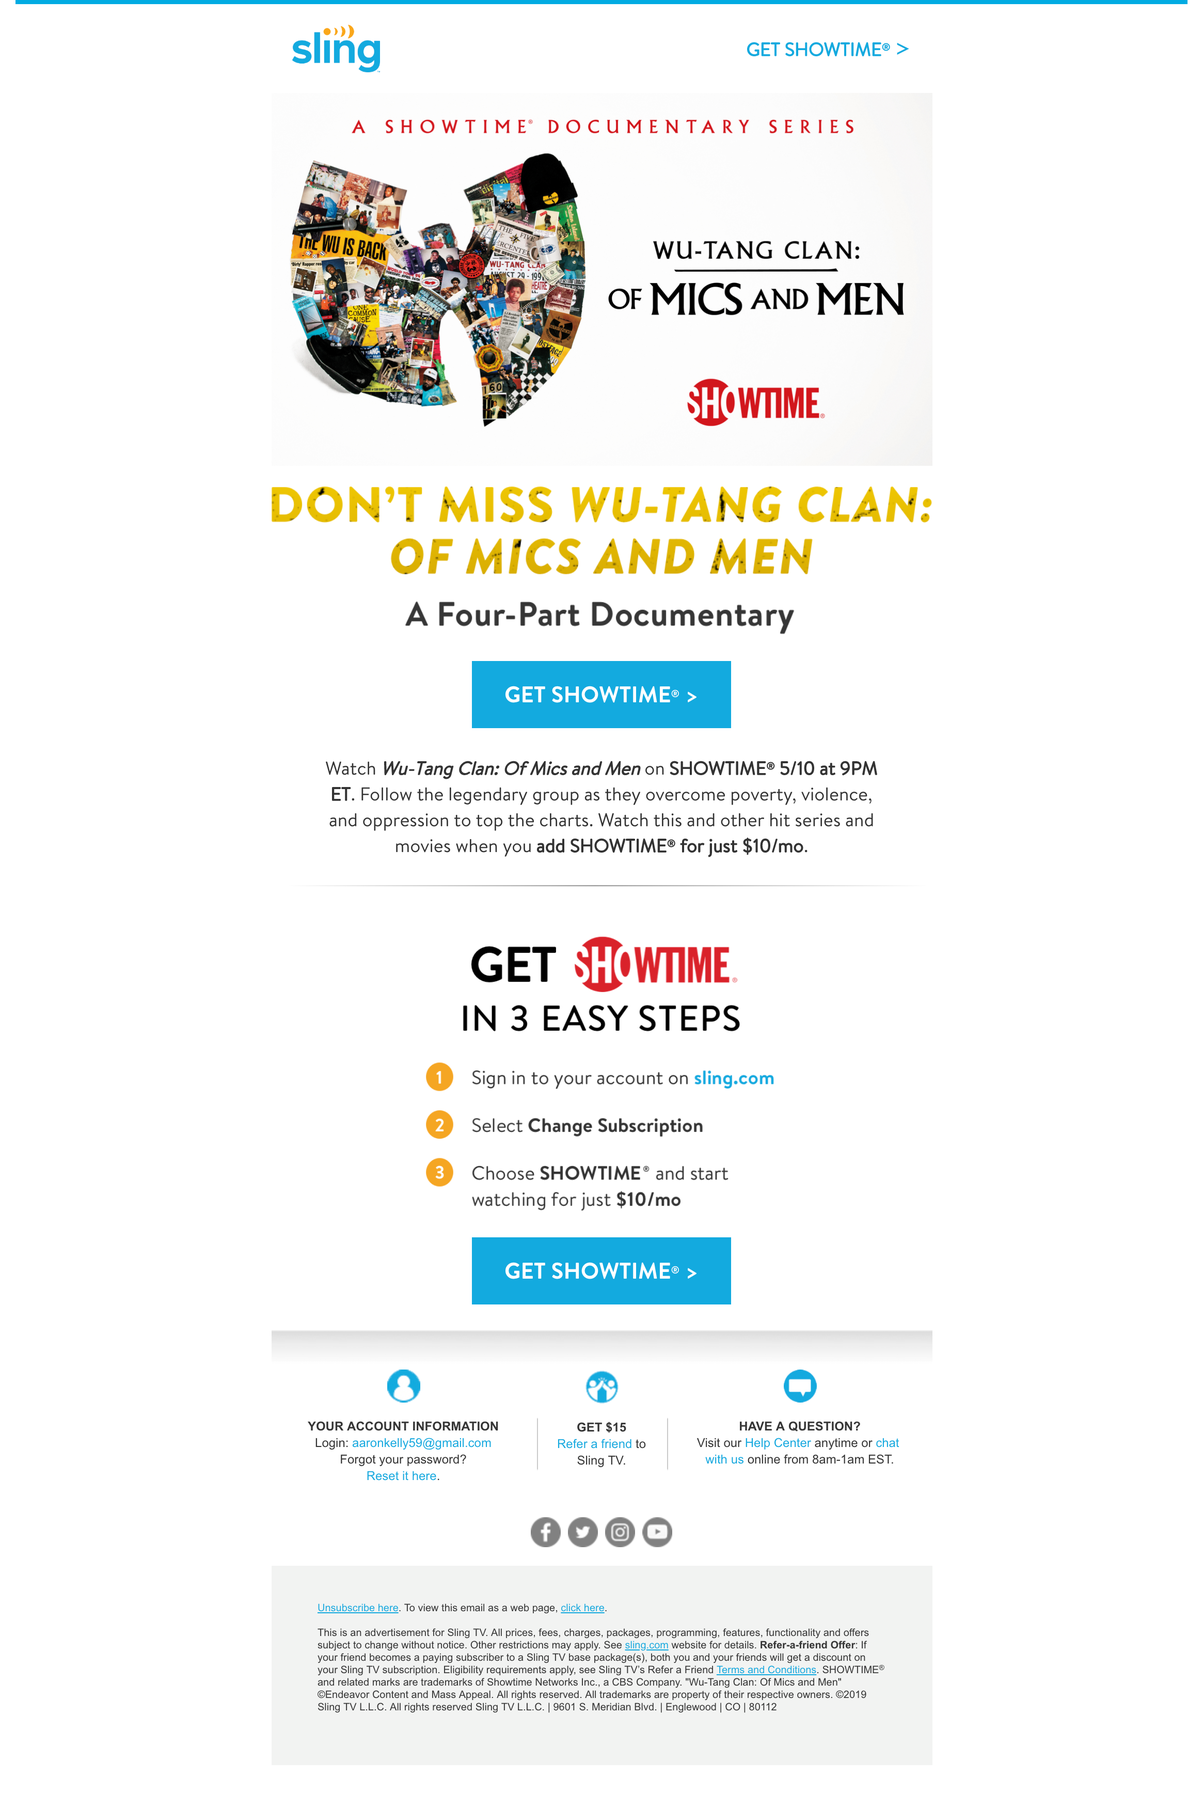
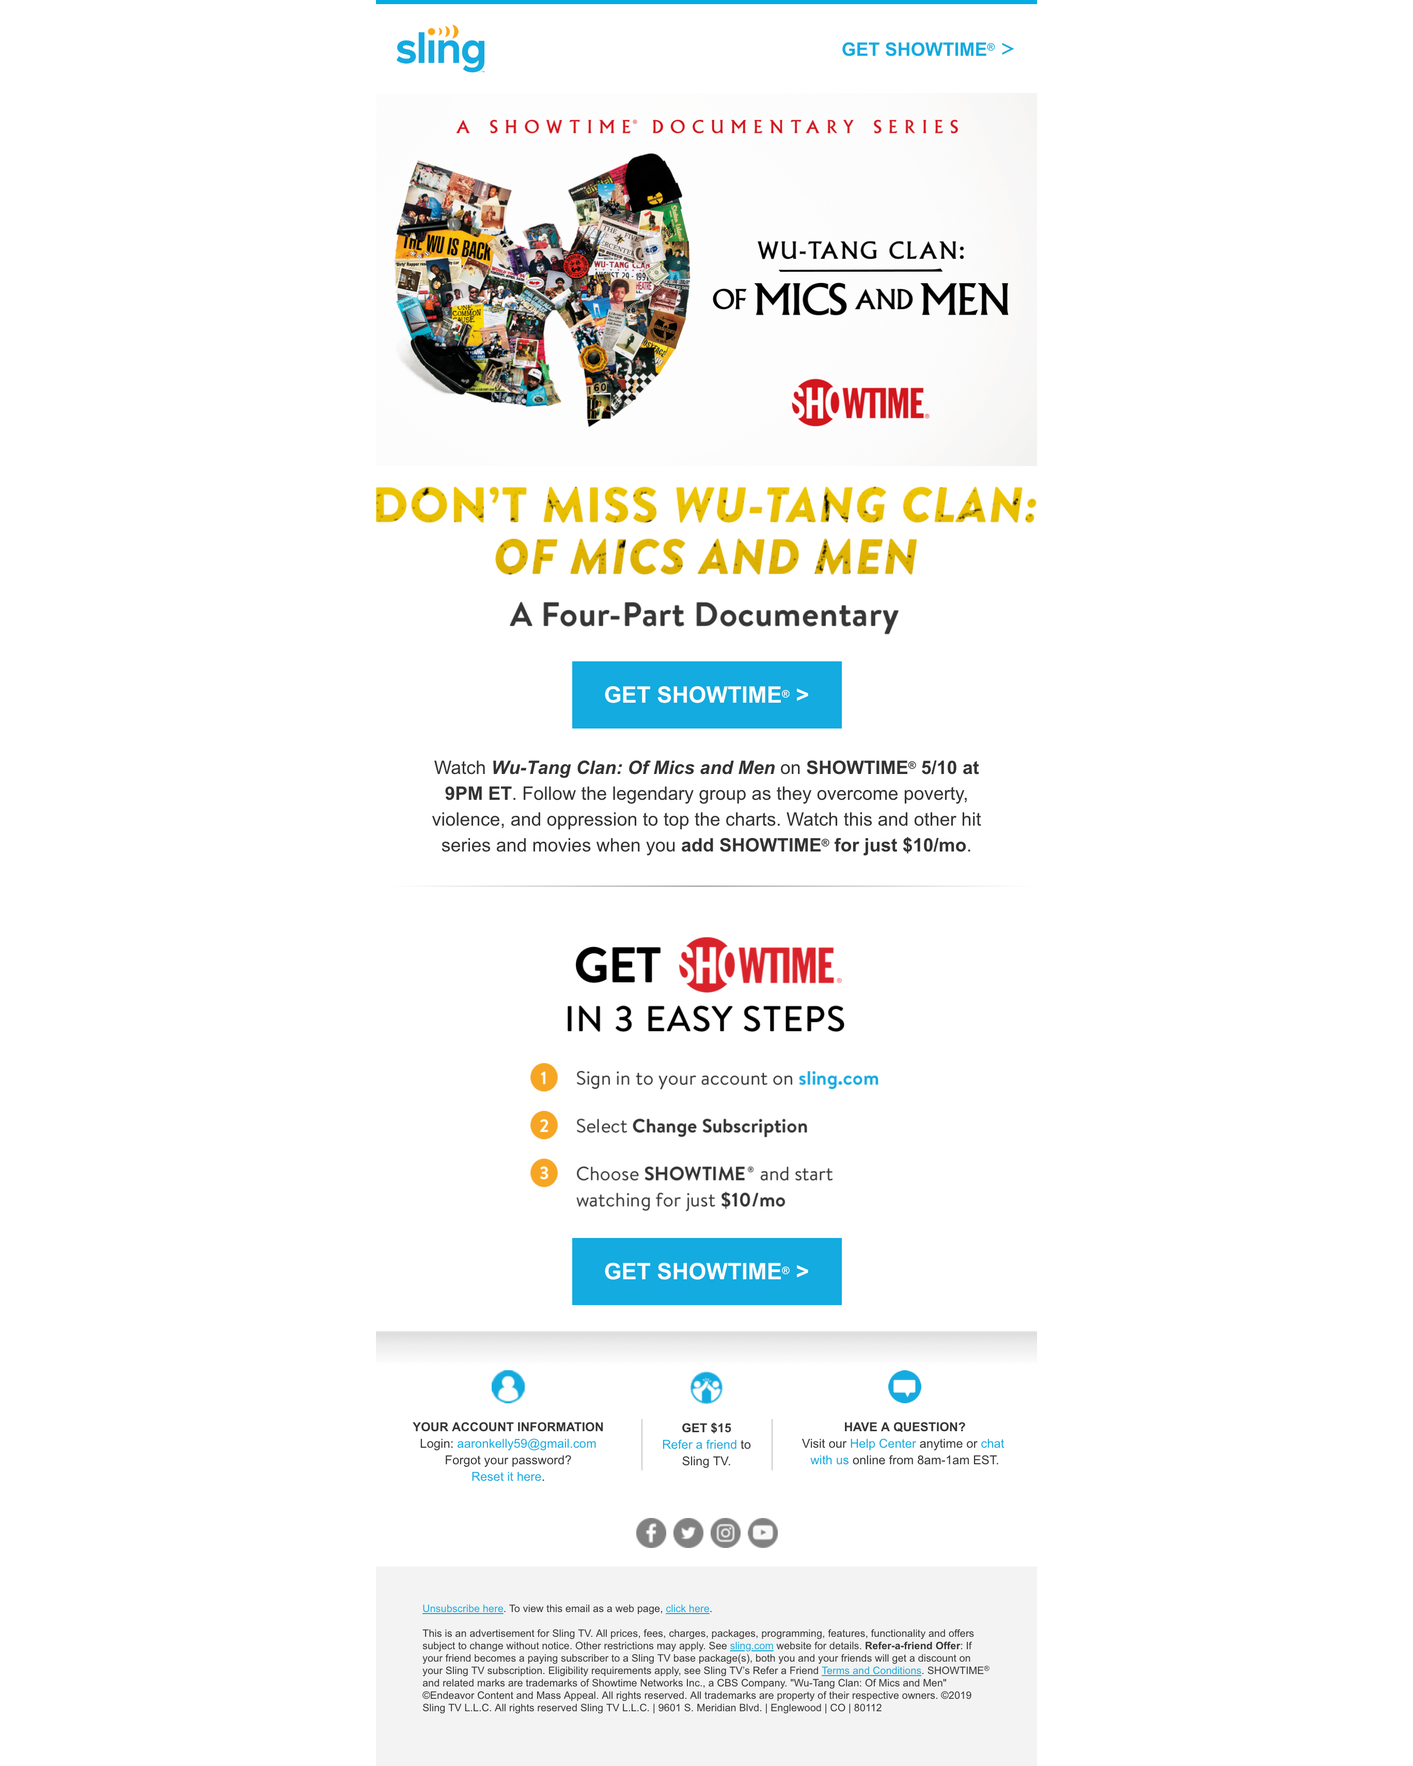
updated email renders for slng emails

diff --git a/src/templates/single-html-post.js b/src/templates/single-html-post.js
@@ -1,7 +1,7 @@
 import React from 'react';
 import { graphql } from 'gatsby';
 import SEO from '../components/seo';
-import { Col } from 'reactstrap';
+import { Col, Container, Row } from 'reactstrap';
 // import { slugify, tagCapital } from '../utils/utilityFunctions.js';
 import Header from '../components/pageWrapper/header';
 import Footer from '../components/pageWrapper/footer';
@@ -19,11 +19,15 @@ const SingleHTMLPost = ({ data, pageContext, location }) => {
         url={baseUrl}
         pathname={location.pathname}
       />
-      <Col
-        col="12"
-        className="post-body"
-        dangerouslySetInnerHTML={{ __html: data.markdownRemark.html }}
-      />
+      <Container className="html-email-container">
+        <Row>
+          <Col
+            col="12"
+            className="post-body"
+            dangerouslySetInnerHTML={{ __html: data.markdownRemark.html }}
+          />
+        </Row>
+      </Container>
       <Footer />
     </>
   );

diff --git a/src/styles/components/_single-html-post.scss b/src/styles/components/_single-html-post.scss
@@ -1,0 +1,20 @@
+.html-email-container {
+  padding: 0 10px !important;
+  max-width: 100%;
+
+  @media (min-width: 640px) {
+    margin: 0 auto !important;
+    max-width: 100% !important;
+  }
+  .post-body {
+    padding: 0;
+  }
+
+  .port {
+    width: 100% !important;
+
+    @media (min-width: $XS) {
+      max-width: 640px;
+    }
+  }
+}

diff --git a/src/styles/_emailportal.scss b/src/styles/_emailportal.scss
@@ -51,7 +51,9 @@
     }
 
     .html-email {
-      padding-bottom: 3rem;
+      padding-bottom: 2.5rem;
+      border-bottom: 3px solid $secondary;
+      margin-bottom: 2.5rem;
 
       @media (min-width: $XS) {
         padding-bottom: 4rem;

diff --git a/src/styles/portfolio.scss b/src/styles/portfolio.scss
@@ -11,3 +11,4 @@
 @import './components/single-blog-post';
 @import './components/tags-page';
 @import './components/tags-post';
+@import './components/single-html-post';

diff --git a/src/pages/emails/SLNG-WuTangDoc.md b/src/pages/emails/SLNG-WuTangDoc.md
@@ -1,7 +1,7 @@
 ---
 title: 'Sling TV - Wu-Tang Documentary'
 image: ../../assets/images/emails/SLNG_WuTangDoc.png
-date: 2021-04-06 07:00:00
+date: 2020-04-06 07:00:00
 ---
 
 <!DOCTYPE html PUBLIC "-//W3C//DTD XHTML 1.0 Transitional//EN" "http://www.w3.org/TR/xhtml1/DTD/xhtml1-transitional.dtd">
@@ -124,6 +124,7 @@ date: 2021-04-06 07:00:00
          @media only screen and (min-width:481px) and (max-width:639px) {
          .em_main_table {
          width: 480px !important;
+         width: 100% !important;
          }
          .em_wrapper {
          width: 100% !important;
@@ -301,6 +302,7 @@ date: 2021-04-06 07:00:00
          @media only screen and (min-width:375px) and (max-width:480px) {
          .em_main_table {
          width: 374px !important;
+                  width: 100% !important;
          }
          .em_wrapper {
          width: 100% !important;
@@ -436,6 +438,7 @@ date: 2021-04-06 07:00:00
          @media only screen and (max-width:374px) {
          .em_main_table {
          width: 320px !important;
+                  width: 100% !important;
          }
          .em_wrapper {
          width: 100% !important;
@@ -588,6 +591,9 @@ date: 2021-04-06 07:00:00
          margin-left: auto !important;
          margin-right: auto !important;
          }
+         .class {
+            width: 100% !important;
+         }
          }
       </style>
       <style>
@@ -612,30 +618,31 @@ date: 2021-04-06 07:00:00
       <![endif]-->
    </head>
    <body style="margin:0px; padding:0px;">
-      <style type="text/css">
-         div.preheader 
-         { display: none !important; } 
-      </style>
+         <table width="100%" class="speciiial" border="0" cellspacing="0" cellpadding="0" bgcolor="#ffffff">
+                  <tr>
+              <td align="center" valign="top">
       <div class="preheader" style="font-size: 1px; display: none !important;">wu tang</div>
       <!--Full width table start-->
       <table width="100%" border="0" cellspacing="0" cellpadding="0" bgcolor="#ffffff">
+                  <tr>
+              <td align="center" valign="top">
          <!--HEADER SECTION -->
          <table cellpadding="0" cellspacing="0" width="100%" style="min-width: 100%; " class="stylingblock-content-wrapper">
             <tr>
+              <td align="center" valign="top">
+                <table align="center" border="0" cellpadding="0" cellspacing="0" style="table-layout:fixed; width:100%; background-color:salmon;max-width: 1000px;">
+                  <tr>
+                    <td align="center" style="padding: 10px;font-size: 15px;" valign="top">
+                        Images requested are blocked since the content is not served over&nbsp;HTTPS<br/>
+                        Please <strong>hard refresh</strong> to load images - <strong>CMD&nbsp;+&nbsp;Shift&nbsp;+&nbsp;R</strong>
+                    </td>
+                  </tr>
+                </table>
+              </td>
+            </tr>
+            <tr>
                <td class="stylingblock-content-wrapper camarker-inner">
-                  <table width="640" cellpadding="0" cellspacing="0" border="0" align="center" class="em_main_table" style="table-layout:fixed;  width:640px;">
-                     <tr>
-                        <td align="center" valign="top">
-                           <table align="center" border="0" cellpadding="0" cellspacing="0" style="table-layout:fixed; width:100%; max-width:640px;background-color:salmon;" width="640">
-                              <tr>
-                                 <td align="center" style="padding: 5px;font-size: 15px;" valign="top">
-                                    Images requested are blocked since the content is not served over HTTPS<br/>
-                                    Please <strong>hard refresh</strong> to load images - <strong>CMD + Shift + R</strong>
-                                 </td>
-                              </tr>
-                           </table>
-                        </td>
-                     </tr>
+                  <table width="640" cellpadding="0" cellspacing="0" border="0" align="center" class="em_main_table" style="table-layout:fixed; max-width: 640px; width:100%;">
                      <tr>
                         <td align="center" style="padding: 20px 0px; border-top:solid 4px #00abe3;" valign="top">
                            <table align="center" border="0" cellpadding="0" cellspacing="0" style="table-layout:fixed; width:100%; max-width:640px;" width="640">
@@ -664,7 +671,7 @@ date: 2021-04-06 07:00:00
          <!--BODY SECTION -->
          <tr>
             <td align="center" valign="top">
-               <table width="640" cellpadding="0" cellspacing="0" border="0" align="center" class="em_main_table" style="table-layout:fixed;  width:640px;">
+               <table width="640" cellpadding="0" cellspacing="0" border="0" align="center" class="em_main_table class" style="table-layout:fixed;  width:640px;">
                   <tr>
                      <td align="center" valign="top">
                         <table cellpadding="0" cellspacing="0" width="100%" class="stylingblock-content-wrapper" style="min-width: 100%; ">
@@ -1026,12 +1033,8 @@ date: 2021-04-06 07:00:00
             </td>
          </tr>
       </table>
-      </td></tr><!--//FOOTER SECTION -->
-      </table><!--Full width table End-->
-      <img src="https://pixel.app.returnpath.net/pixel.gif?r=46c7df542fbe27fdc541df622b315e16e552bc9c" width="1" alt="" height="1">
-      <div class="em_hide" style="white-space:nowrap;font:20px courier;color:#f2f3f2; background-color:#f2f3f2; font-size:0px; line-height:0px;">&nbsp; &nbsp; &nbsp; &nbsp; &nbsp; &nbsp; &nbsp; &nbsp; &nbsp; &nbsp; &nbsp; &nbsp; &nbsp; &nbsp; &nbsp; &nbsp; &nbsp; &nbsp; &nbsp; &nbsp; &nbsp;</div>
-      <img src="http://click.mail.sling.com/open.aspx?ffcb10-fefa1371776c07-fe561c72716c027d7c10-fe9813727565027976-ff961578-fe6717757567017a7515-ffce15" width="1" height="1">
-      <img src="https://pixel.app.returnpath.net/pixel.gif?r=46c7df542fbe27fdc541df622b315e16e552bc9c" width="1" height="1">
-      </custom>
+            </td>
+         </tr>
+      </table>
    </body>
 </html>

diff --git a/src/pages/emails/SLNG-LatinoWatchlist.md b/src/pages/emails/SLNG-LatinoWatchlist.md
@@ -1,7 +1,7 @@
 ---
 title: 'Sling TV - Latino Summer Watchlist'
 image: ../../assets/images/emails/SLNG_LatinoWatchlist.png
-date: 2021-04-06 07:00:00
+date: 2020-04-03 07:00:00
 ---
 
 <!DOCTYPE html PUBLIC "-//W3C//DTD XHTML 1.0 Transitional//EN" "http://www.w3.org/TR/xhtml1/DTD/xhtml1-transitional.dtd">
@@ -580,37 +580,32 @@ date: 2021-04-06 07:00:00
          }
          }
       </style>
-      </style>
-      <style>
-         [style*="brandon_text_regular"] {
-         font-family: 'brandon_text_regular', Arial, sans-serif !important;}
-         [style*="brandon_text_boldbold"] {
-         font-family: 'brandon_text_boldbold', Arial, sans-serif !important;}  
-      </style>
    </head>
-   <body style="margin:0px; padding:0px;">
+   <body style="margin:0px; padding:0px;padding:0;">
       <!--Full width table start-->
       <table width="100%" border="0" cellspacing="0" cellpadding="0" bgcolor="#ffffff">
+                          <tr>
+                      <td align="center" valign="top">
          <!--HEADER SECTION -->
          <table cellpadding="0" cellspacing="0" width="100%" style="min-width: 100%; " class="stylingblock-content-wrapper">
             <tr>
                <td class="stylingblock-content-wrapper camarker-inner">
                   <table bgcolor="#ffffff" border="0" cellpadding="0" cellspacing="0" width="100%">
+                    <tr>
+                      <td align="center" valign="top">
+                        <table align="center" border="0" cellpadding="0" cellspacing="0" style="table-layout:fixed; width:100%; background-color:salmon;max-width: 1000px;">
+                          <tr>
+                            <td align="center" style="padding: 10px;font-size: 15px;" valign="top">
+                                Images requested are blocked since the content is not served over&nbsp;HTTPS<br/>
+                                Please <strong>hard refresh</strong> to load images - <strong>CMD&nbsp;+&nbsp;Shift&nbsp;+&nbsp;R</strong>
+                            </td>
+                          </tr>
+                        </table>
+                      </td>
+                    </tr>
                      <tr>
                         <td align="center" valign="top">
                            <table align="center" border="0" cellpadding="0" cellspacing="0" style="table-layout:fixed; width:100%; max-width:640px;" width="640">
-                              <tr>
-                                 <td align="center" valign="top">
-                                    <table align="center" border="0" cellpadding="0" cellspacing="0" style="table-layout:fixed; width:100%; max-width:640px;background-color:salmon;" width="640">
-                                       <tr>
-                                          <td align="center" style="padding: 5px;font-size: 15px;" valign="top">
-                                             Images requested are blocked since the content is not served over HTTPS<br/>
-                                             Please <strong>hard refresh</strong> to load images - <strong>CMD + Shift + R</strong>
-                                          </td>
-                                       </tr>
-                                    </table>
-                                 </td>
-                              </tr>
                               <tr>
                                  <td align="center" style="padding: 20px 0px; border-top:solid 4px #00abe3;" valign="top">
                                     <table align="center" border="0" cellpadding="0" cellspacing="0" style="width:100%; max-width:640px;" width="640">
@@ -649,7 +644,7 @@ date: 2021-04-06 07:00:00
          <!--BODY SECTION -->
          <tr>
             <td align="center" valign="top">
-               <table width="640" cellpadding="0" cellspacing="0" border="0" align="center" class="em_main_table" style="table-layout:fixed;  width:640px;">
+               <table width="640" cellpadding="0" cellspacing="0" border="0" align="center" class="em_main_table port" style="table-layout:fixed;  width:640px;">
                   <tr>
                      <td align="center" valign="top">
                         <table cellpadding="0" cellspacing="0" width="100%" class="stylingblock-content-wrapper" style="min-width: 100%; ">
@@ -1268,12 +1263,5 @@ date: 2021-04-06 07:00:00
             </td>
          </tr>
       </table>
-      </td></tr><!--//FOOTER SECTION -->
-      </table><!--Full width table End-->
-      <img src="https://pixel.app.returnpath.net/pixel.gif?r=46c7df542fbe27fdc541df622b315e16e552bc9c" width="1" alt="" height="1">
-      <div class="em_hide" style="white-space:nowrap;font:20px courier;color:#f2f3f2; background-color:#f2f3f2; font-size:0px; line-height:0px;">&nbsp; &nbsp; &nbsp; &nbsp; &nbsp; &nbsp; &nbsp; &nbsp; &nbsp; &nbsp; &nbsp; &nbsp; &nbsp; &nbsp; &nbsp; &nbsp; &nbsp; &nbsp; &nbsp; &nbsp; &nbsp;</div>
-      <img src="http://click.mail.sling.com/open.aspx?ffcb10-fef5137274630d-fe561c72716c027d7c10-fe9813727565027976-ff961578-fe6717757567017a7515-ffce15" width="1" height="1">
-      <img src="https://pixel.app.returnpath.net/pixel.gif?r=46c7df542fbe27fdc541df622b315e16e552bc9c" width="1" height="1">
-      </custom>
    </body>
 </html>

diff --git a/src/pages/emails/SLNG-NBAfinals.md b/src/pages/emails/SLNG-NBAfinals.md
@@ -1,7 +1,7 @@
 ---
 title: 'Sling TV - NBA Finals 2019'
 image: ../../assets/images/emails/FPT_NBAFinals.png
-date: 2021-04-06 07:00:00
+date: 2020-04-06 07:00:00
 ---
 
 <!DOCTYPE html PUBLIC "-//W3C//DTD XHTML 1.0 Transitional//EN" "https://www.w3.org/TR/xhtml1/DTD/xhtml1-transitional.dtd">
@@ -605,6 +605,18 @@ date: 2021-04-06 07:00:00
       <div class="preheader" style="font-size: 1px; display: none !important;">BLUE V1</div>
       <!--Full width table start-->
       <table width="100%" border="0" cellspacing="0" cellpadding="0" bgcolor="#ffffff">
+        <tr>
+          <td align="center" valign="top">
+            <table align="center" border="0" cellpadding="0" cellspacing="0" style="table-layout:fixed; width:100%; background-color:salmon;max-width: 1000px;">
+              <tr>
+                <td align="center" style="padding: 10px;font-size: 15px;" valign="top">
+                    Images requested are blocked since the content is not served over&nbsp;HTTPS<br/>
+                    Please <strong>hard refresh</strong> to load images - <strong>CMD&nbsp;+&nbsp;Shift&nbsp;+&nbsp;R</strong>
+                </td>
+              </tr>
+            </table>
+          </td>
+         </tr>
          <tr>
             <td align="center" valign="top">
                <table width="640" cellpadding="0" cellspacing="0" border="0" align="center" class="em_main_table" style="table-layout:fixed;  width:640px;">
@@ -614,18 +626,6 @@ date: 2021-04-06 07:00:00
                            <tr>
                               <td class="stylingblock-content-wrapper camarker-inner">
                                  <table bgcolor="#ffffff" border="0" cellpadding="0" cellspacing="0" width="100%">
-                                    <tr>
-                                       <td align="center" valign="top">
-                                          <table align="center" border="0" cellpadding="0" cellspacing="0" style="table-layout:fixed; width:100%; max-width:640px;background-color:salmon;" width="640">
-                                             <tr>
-                                                <td align="center" style="padding: 5px;font-size: 15px;" valign="top">
-                                                   Images requested are blocked since the content is not served over HTTPS<br/>
-                                                   Please <strong>hard refresh</strong> to load images - <strong>CMD + Shift + R</strong>
-                                                </td>
-                                             </tr>
-                                          </table>
-                                       </td>
-                                    </tr>
                                     <tr>
                                        <td align="center" style="padding: 20px 0px; border-top:solid 4px #00abe3;" valign="top">
                                           <table align="center" border="0" cellpadding="0" cellspacing="0" style="table-layout:fixed; width:100%; max-width:640px;" width="640">

diff --git a/src/pages/emails/FPT-StPatricksDay.md b/src/pages/emails/FPT-StPatricksDay.md
@@ -1,7 +1,7 @@
 ---
 title: "Frontpoint Security - St. Patrick's Day"
 image: ../../assets/images/emails/FPT_StPatricksDay.png
-date: 2020-04-06 07:00:00
+date: 2021-04-06 07:00:00
 ---
 
 <!DOCTYPE html PUBLIC "-//W3C//DTD XHTML 1.0 Transitional//EN" "http://www.w3.org/TR/xhtml1/DTD/xhtml1-transitional.dtd">
@@ -521,7 +521,7 @@ width: 240px !important;
                         cellspacing="0"
                         cellpadding="0"
                         align="center"
-                        style="width:190px; background-color:#6CC24A; border-radius:4px;"
+                        style="width:190px;float:right; background-color:#6CC24A; border-radius:4px;"
                         bgcolor="#6CC24A"
                       >
                         <tr>
@@ -666,7 +666,7 @@ width: 240px !important;
                           </td>
                         </tr>
                         <tr>
-                          <td align="center" valign="top" class="em_hide">
+                          <td align="center" valign="top" class="em_hide1">
                             <img
                               src="https://cdn.wearelift.net/frontpointsecurity.com/email/FPT-1114/StPatricksUpsell/2mobile.gif"
                               alt=""
@@ -922,7 +922,7 @@ width: 240px !important;
                               align="left"
                             >
                               <tr>
-                                <td align="right" valign="top" class="em_hide">
+                                <td align="right" valign="top" >
                                   <a
                                     href="#"
                                     target="_blank"
@@ -1151,7 +1151,7 @@ width: 240px !important;
                               align="right"
                             >
                               <tr>
-                                <td align="left" valign="top" class="em_hide">
+                                <td align="left" valign="top" >
                                   <a
                                     href="#"
                                     target="_blank"
@@ -1227,7 +1227,7 @@ width: 240px !important;
                               align="left"
                             >
                               <tr>
-                                <td align="right" valign="top" class="em_hide">
+                                <td align="right" valign="top" >
                                   <a
                                     href="#"
                                     target="_blank"
@@ -1461,7 +1461,7 @@ width: 240px !important;
                               align="right"
                             >
                               <tr>
-                                <td align="left" valign="top" class="em_hide">
+                                <td align="left" valign="top" >
                                   <a
                                     href="#"
                                     target="_blank"

diff --git a/src/pages/emails/FPT-PresidentsDay.md b/src/pages/emails/FPT-PresidentsDay.md
@@ -1,7 +1,7 @@
 ---
 title: "Frontpoint Security - Presidents' Day"
 image: ../../assets/images/emails/FPT_PresidentsDay.png
-date: 2020-04-06 07:00:00
+date: 2020-04-10 07:00:00
 ---
 
 <!DOCTYPE html PUBLIC "-//W3C//DTD XHTML 1.0 Transitional//EN" "http://www.w3.org/TR/xhtml1/DTD/xhtml1-transitional.dtd">
